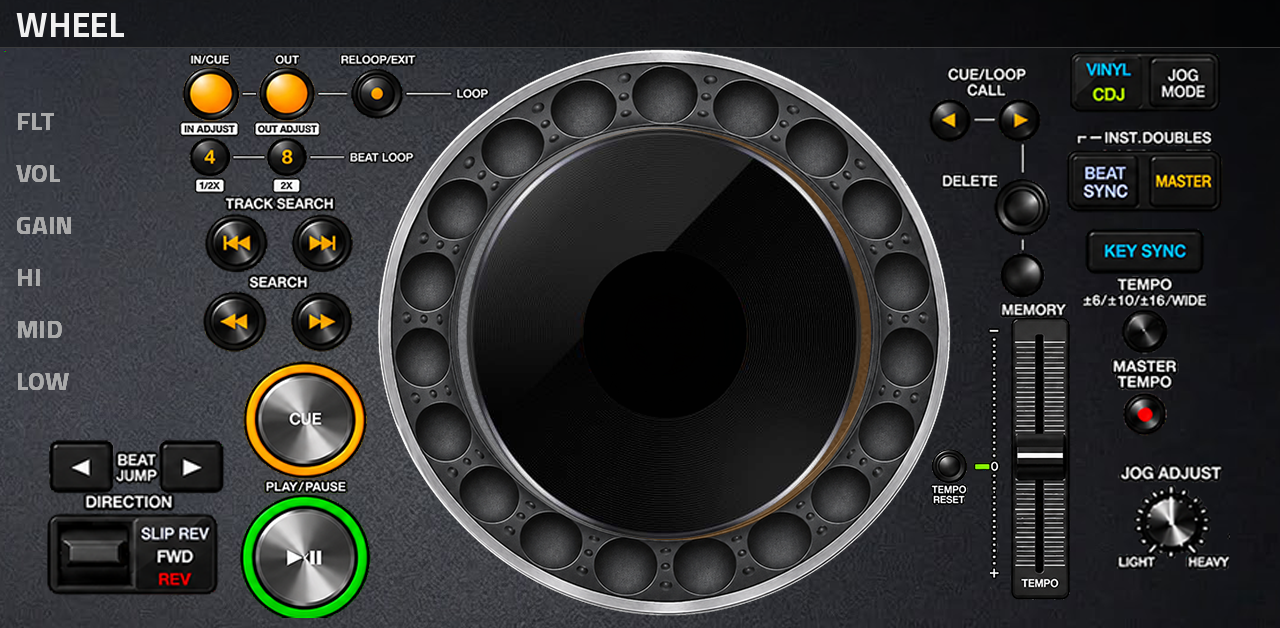
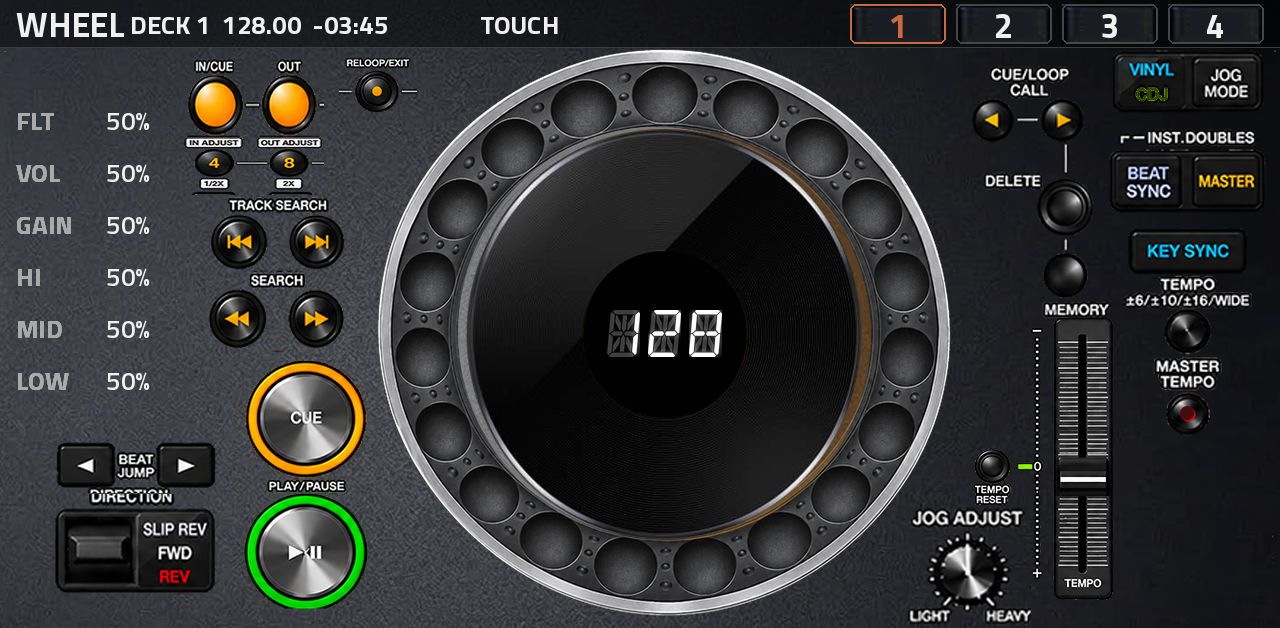
0.1.22 release: README, changelog, user guide, tested.json and screenshots
Claude-Session: https://claude.ai/code/session_01YReGWSNg36vMsNPa3sgUvD

diff --git a/CHANGELOG.md b/CHANGELOG.md
@@ -1,24 +1,24 @@
 # Changelog
 
-## 0.1.22
-- VINYL / CDJ (WHEEL page): the button's tap is now taken by the plugin's own touch layer, which flips the deck's vinyl mode itself (logged as "touch: VINYL/CDJ deck N -> CDJ|VINYL"); the skin only draws the button (lit word = current mode) and no longer relies on MPC's toggle. Test build, not yet tested on a Force.
+## 0.1.22 (release, tested on a Force)
+- VINYL / CDJ (WHEEL page): the button's tap is now taken by the plugin's own touch layer, which flips the deck's vinyl mode itself (logged as "touch: VINYL/CDJ deck N -> CDJ|VINYL"); the skin only draws the button (lit word = current mode) and no longer relies on MPC's toggle. Tested on a Force (MPC OS 3.9.1).
 
-## 0.1.21 (test build, not yet tested on a Force)
+## 0.1.21 (tested on a Force with 0.1.22)
 VINYL and CDJ do two different things again, and the VINYL / CDJ + JOG MODE button switches between them. (1) WHEEL page: the button's touch area was only 38 px wide (half of half the pair); the whole pair (VINYL / CDJ and JOG MODE) is now one button for the vinyl mode, and it shows the mode: VINYL lit and CDJ dimmed when it is on, the other way round when off. (2) WHEEL and WHEELS pages: since 0.1.16 the wheel scratched the track in both modes; now VINYL scratches the playing track (clockwise forward, anticlockwise back) and CDJ adjusts it (a pitch nudge, scaled by JOG ADJUST). A stopped track is moved by the wheel in both modes, as before.
 
-## 0.1.20 (test build, not yet tested on a Force)
+## 0.1.20 (tested on a Force with 0.1.22)
 WHEEL page, right-hand side only (everything else as 0.1.19): the right-hand column is cut from your own picture (`art/ui/controls/wheel_page_user_0.1.11.png`) at full size instead of the controls sheet squeezed into smaller boxes, so VINYL / CDJ + JOG MODE, BEAT SYNC / MASTER, KEY SYNC, TEMPO, MASTER TEMPO and TEMPO RESET are their real size, and the CUE/LOOP CALL / DELETE / MEMORY art and the tempo scale are back. The column is moved 43 px to the right so no space is left at the right edge. The JOG ADJUST knob (dial turning in place) is now left of the pitch slider, under TEMPO RESET, and about 1.6 times its old size on the page.
 
-## 0.1.19 (test build, not yet tested on a Force)
+## 0.1.19 (tested on a Force with 0.1.22)
 Two fixes to 0.1.18 (touch tested: works). (1) Changing between the WHEELS and WHEEL pages left the old page's wheel drawing on screen for a few seconds: the live screen now looks for the page every other frame while one is shown, and when the page has just gone it searches the whole picture straight away instead of waiting for its slow turn. (2) The wheel (and the skin's jog ring) no longer turns with the playing track, as on a CDJ: it turns only when it is scratched (VINYL, finger or phone), when it is adjusted in CDJ mode (by the amount the finger or phone adjusted it), and when it moves a stopped track.
 
-## 0.1.18 (test build, not yet tested on a Force)
+## 0.1.18 (tested on a Force with 0.1.22)
 The WHEEL page's wheel behaviour (tested: perfect) now also drives the two small wheels of the WHEELS page: each ring turns freely with the finger and with its deck's platter (`tools/gen_ring.py` now also makes `Screen/ring_420.png` and `ring_light_420.png`), and a clockwise circle moves that deck's track forward, anticlockwise back, stopped or playing. The live screen and the touch layer now work both pages. The wheels' faces are the skin's own again: the live screen no longer draws a photo label disc, a position arc or any text (deck, BPM, time) over or round the wheels, so the skin's centre and its BPM digits show as before. The ring turn is now integer maths (about 5 to 10 times cheaper): 0.1.17 took about 105 ms a frame on the Force (6 frames a second).
 
-## 0.1.17 (test build, not yet tested on a Force)
+## 0.1.17 (tested on a Force with 0.1.22)
 Fixes 0.1.16, which showed nothing new on the Force: the live screen (`src/overlay.c`) and the engine's touch reader (`src/touch.c`) both assumed the display is not turned, but the Force's panel is portrait (800 x 1280) and MPC draws its screen turned 90 degrees into it, so neither ever found the page or read a touch in the right place (that is also why the waveforms never showed). They now find the turn, the page and the plane the way XYZ-STACK does (rotation-aware marker search, the page turned into the plane, touch mapped back through the turn). Limited to the WHEEL page in this test: the live screen draws only that page, and the touch layer works only that page's wheel (the buttons stay the skin's own). Everything else as in 0.1.16.
 
-## 0.1.16 (test build, not yet tested on a Force)
+## 0.1.16 (tested on a Force with 0.1.22)
 WHEEL page only (the one-deck page): the wheel picture is the endless encoder, drawn by the live screen turned to any angle like XYZ-STACK's wheel (`tools/gen_ring.py` makes `Screen/ring_574.png` and `ring_light_574.png`; the skin's own ring stays under it as the fallback). It turns exactly with the finger around the wheel's centre and with the platter. A clockwise circle moves the track forward, an anticlockwise circle moves it back (one turn is about 1.8 s of track, scaled by JOG ADJUST), stopped or playing, VINYL or CDJ alike (a playing track scratches; a stopped one moves its playhead). The WHEELS page and the other pages are unchanged.
 
 ## 0.1.15 (release)

diff --git a/README.md b/README.md
@@ -1,6 +1,6 @@
 # reMixXXL
 
-**Status: 0.1.15 (release). The last version tested on an Akai Force (MPC OS 3.9.1) by the author and recorded in `tested.json` is 0.1.12: new WHEEL page layout from the author's own art; wheel touch (also on a stopped track), ring spin, BPM digits, QR and the companion page work.** Four DJ decks for the Akai Force / MPC OS, as a native
+**Status: 0.1.22 (release, tested on an Akai Force, MPC OS 3.9.1, by the author; recorded in `tested.json`). The WHEEL pages' jog wheels are endless encoders that turn with the finger (clockwise = track forward) and only move when scratched or adjusted, never while the track plays; the VINYL / CDJ button switches between scratching (VINYL) and pitch nudging (CDJ).** Four DJ decks for the Akai Force / MPC OS, as a native
 plugin (VST2 for MPC's own plugin host, packed by [mpc-vst-plugins](https://github.com/sd88me/mpc-vst-plugins)).
 By L'Cronx.
 
@@ -24,9 +24,9 @@ MPC's plugin screen (1280 x 628 under the MPC header) has these tabs (the OVERVI
 | WHEELS | two CDJ-style decks side by side, built from the user's CDJ photo (`art/platter_nobrand.png`, `art/control_map.json`): the platter, cue, play, the tempo fader, tempo reset, master tempo, tempo range, beat loop 4 / 8, loop in / out, beat jump, slip / rev, track search, search, jog feel, vinyl / jog mode, beat sync / master, key sync. DECK 1-4 buttons per side pick which deck each wheel drives. Q-Link banks WHEELS 1..4 |
 | WHEEL | one CDJ deck, full size (the left wheel's deck), laid out from the author's own transparent art (0.1.11): loop in / out / reloop, beat loop 4 / 8, track search, search, cue, play, beat jump, direction (slip / rev), vinyl / jog mode, beat sync / master, key sync, tempo range, master tempo, the tempo fader and its scale, tempo reset, the JOG ADJUST knob. The deck's filter, volume, gain, high, mid and low show as values on the left. Q-Link banks WHEEL 1..4 |
 
-## Screenshots (0.1.12)
+## Screenshots (0.1.22)
 
-The pages as the skin draws them (1280 x 628). WHEEL is the 0.1.12 layout, from the author's own art; the others are rendered by `./build.sh --skin-only`.
+The pages as the skin draws them (1280 x 628). All pages are rendered from the 0.1.22 skin by `./build.sh --skin-only`; the WHEEL page's right-hand column is the author's own art.
 
 | DECK | BROWSE |
 |---|---|
@@ -58,11 +58,7 @@ the QR code on the WHEEL page. See [docs/COMPANION.md](docs/COMPANION.md).
 (`reMixXXL-<version>-mpc-armv7.zip`, packed by the mpc-vst-plugins wrapper in `third_party/`). `./build.sh --skin-only`
 rebuilds only the skin. Never build x86/desktop versions: only the Force binary is supported.
 
-**What this source reproduces.** `src/` builds the exact `remixxxl.so` of the 0.1.12 release (SHA-256 `00a9bafa62dd...b60c0`; it is
-checked against this source's build). The release's skin differs from what `tools/remix_skin.py` generates in two ways that are
-not in this source yet: 48 extra "jog knob" components in `TUI.json` and the ring film strips in reverse frame order
-(`rx_jog_ring_*.png`). The 0.1.11/0.1.12 WHEEL page is the 0.1.10 skin run through `tools/patch_wheel.py` (the author's transparent picture
-`art/ui/controls/wheel_page_user_0.1.11.png`, the boxes in `tools/wheel_geom.py`); the script reproduces the release's skin file for file. Use the release zip for the tested skin.
[1 lines of base64/hex data omitted]
 
 Text sizes follow the L'Cronx XXL rule: Titillium Web, nothing under 26 px on any page (readouts and list rows 26 px
 Bold, button labels 28 px, page names and deck numbers 34 px, knob names 26-28 px SemiBold).

diff --git a/docs/USER_GUIDE.md b/docs/USER_GUIDE.md
@@ -1,4 +1,4 @@
-# reMixXXL user guide (0.1.0, pre-release)
+# reMixXXL user guide (0.1.22)
 
 reMixXXL is a plugin instrument on a Force / MPC track: four DJ decks, a mixer, two effect units and a track browser,
 all on the plugin's own screen pages. Audio comes out of the track like any plugin's; MIDI into the track reaches the
@@ -24,7 +24,7 @@ The selected deck (DECK 1-4 in the stripe), Mixxx style: the scrolling waveform 
 2 / 4 / 8 / 16 / 32 S), the overview strip under it with the playhead, hot cue marks and the loop.
 
 Row 1: PLAY, CUE (press: cue / return to cue, Mixxx's cue_default), SYNC (one-shot beat sync), SLIP, REV, KEYLOCK,
-QUANT (quantize cues and loops to the beat), VINYL (vinyl mode: the platter top scratches; off: nudges).
+QUANT (quantize cues and loops to the beat), VINYL (vinyl mode: the wheel scratches the playing track; off = CDJ: it nudges the pitch). On the WHEEL page the VINYL / CDJ button switches it: the lit word is the current mode. The wheel never spins on its own while a track plays; it turns when you scratch or adjust it.
 Row 2: hot cues 1-8 (empty: set; set: jump; CLR CUE + a hot cue clears it, from a mapping or a Q-Link).
 Row 3: LOOP IN, LOOP OUT, RELOOP (on / off), LOOP /2, LOOP X2, < JUMP, JUMP > (the beat jump size), EJECT.
 Under the rows: the values the DECK Q-Link bank edits (TEMPO, FILTER, GAIN, HIGH, MID, LOW, LOOP size, JUMP size).
